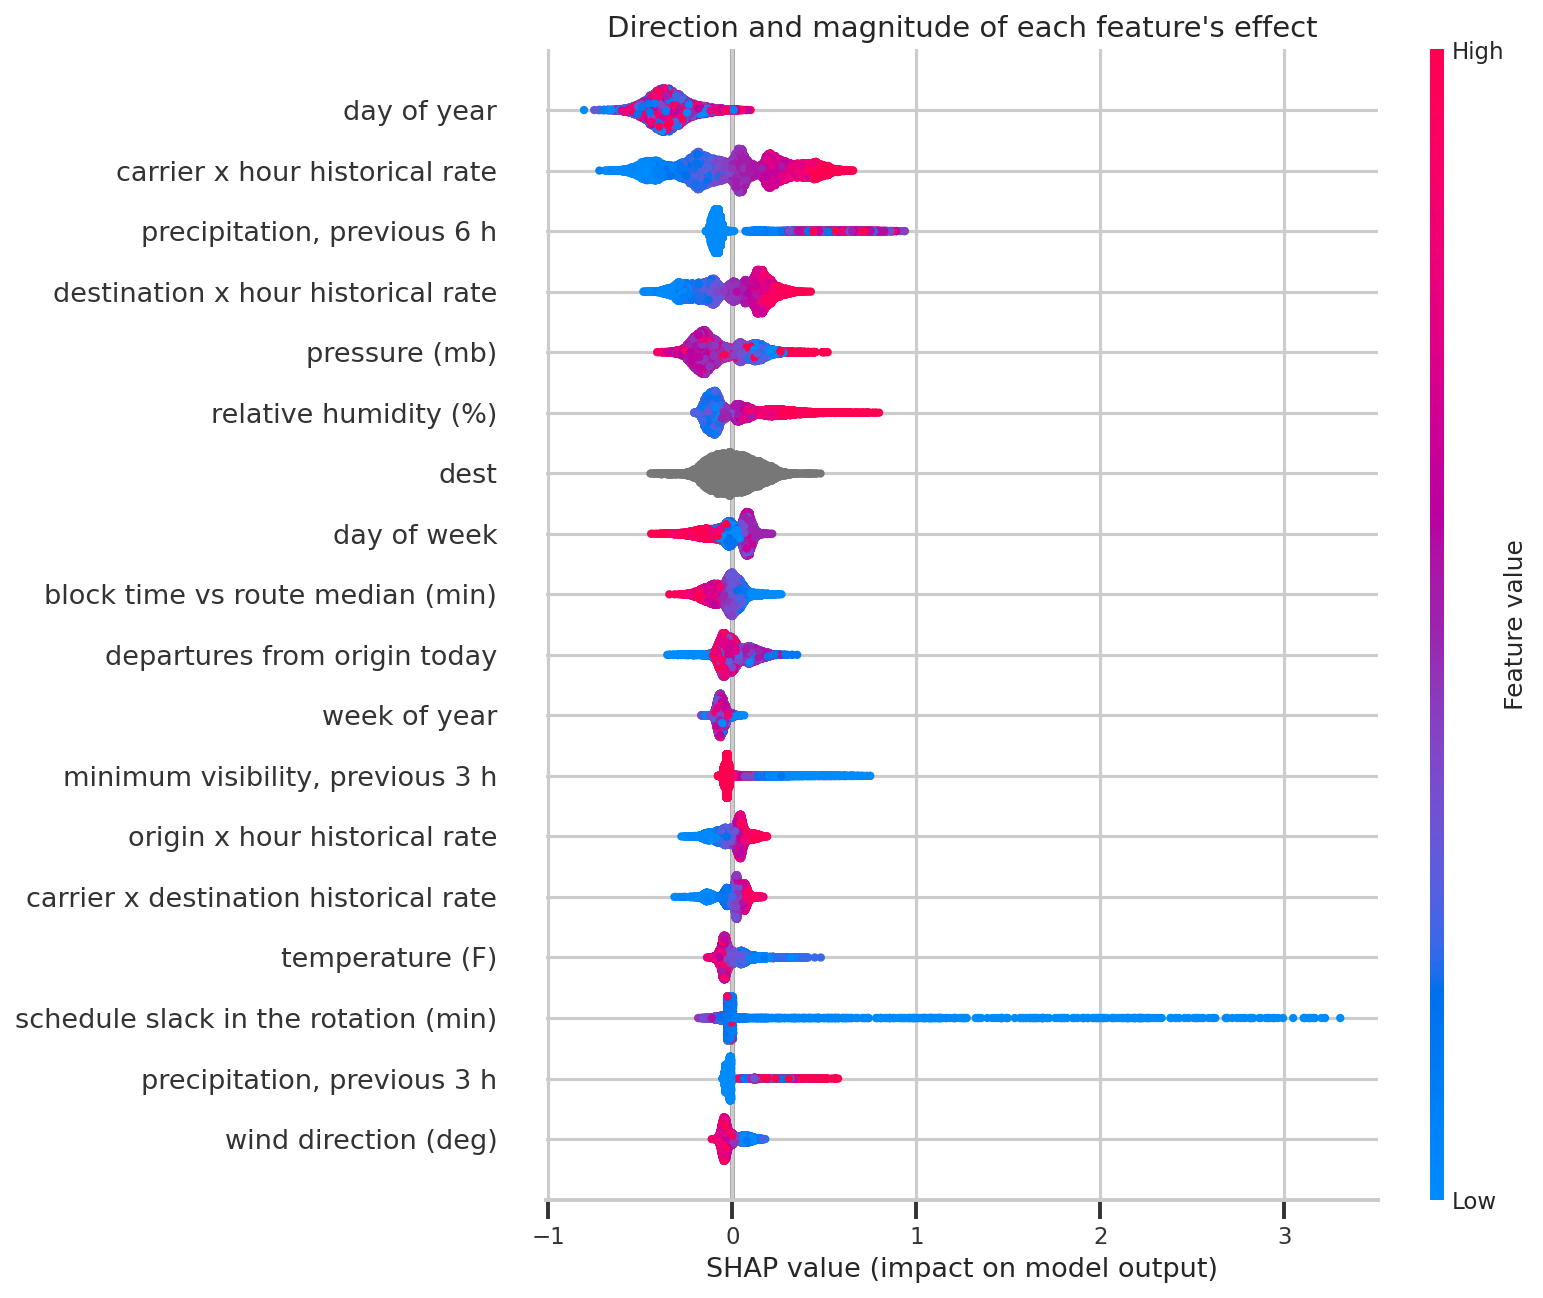
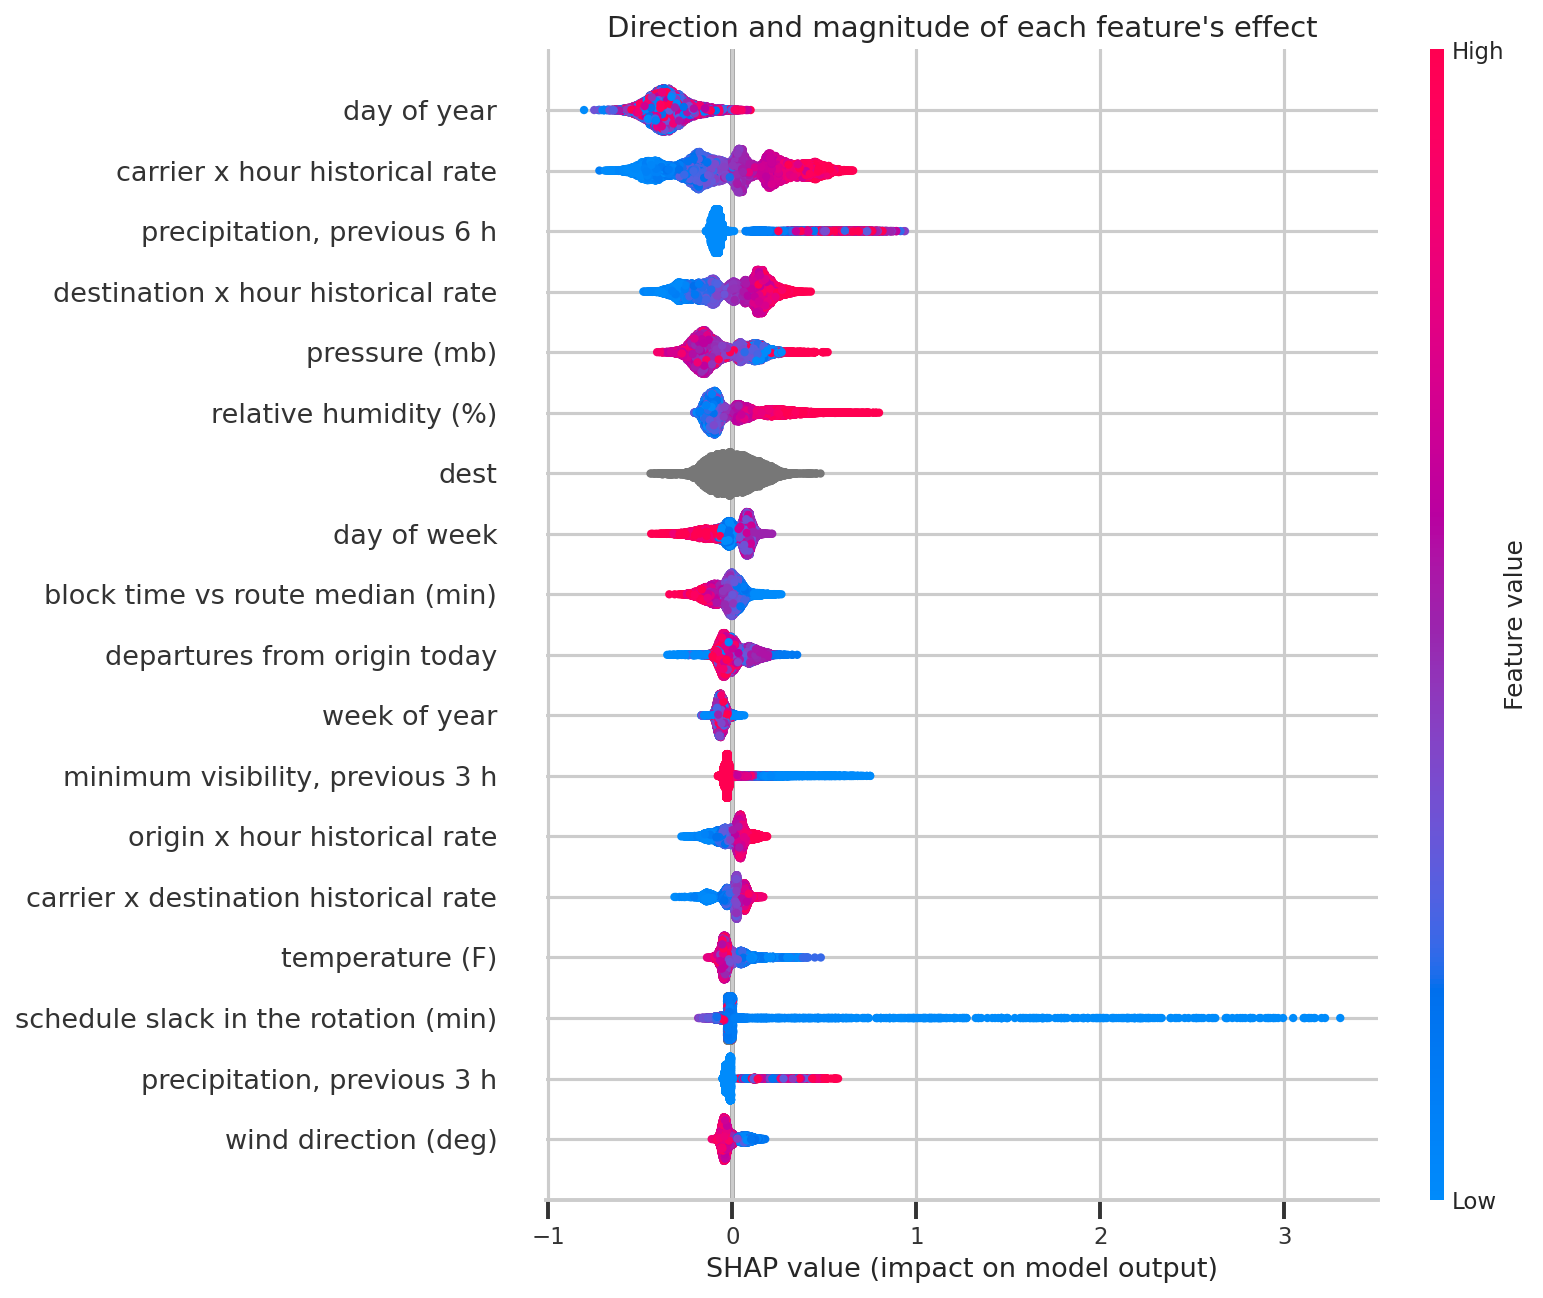
this cant be right

diff --git a/src/explain.py b/src/explain.py
@@ -257,13 +257,75 @@ def step_shap(sample_size: int = 20000) -> None:
                 bbox_inches="tight", facecolor="white")
     plt.close(fig)
 
+    # --- level shifters vs discriminators ------------------------------
+    stats = _fig_level_vs_rank(sv, X, train)
+
     SHAP_FILE.write_text(json.dumps({
         "n_sample": int(len(X)),
         "mean_abs_shap": {k: float(v) for k, v in order.items()},
         "group_share": {k: float(v / total) for k, v in
                         sorted(grouped.items(), key=lambda kv: -kv[1])},
+        "out_of_range_features": stats,
     }, indent=2))
-    log.info("wrote SHAP figures 16-20")
+    log.info("wrote SHAP figures 16-20, 22")
+
+
+def _fig_level_vs_rank(sv: np.ndarray, X: pd.DataFrame,
+                       train: pd.DataFrame) -> Dict:
+    """Separate features that shift the level from features that rank flights.
+
+    Mean |SHAP| -- the standard importance bar chart -- sums two very different
+    behaviours. A feature whose test values sit entirely outside the training
+    range gets pushed into the model's last bin for *every* test flight and
+    contributes a large but nearly constant offset: it moves calibration and
+    does nothing for discrimination. A feature that varies flight to flight is
+    what actually produces ranking. Plotting the mean against the standard
+    deviation of the SHAP values separates the two.
+    """
+    mean_signed = sv.mean(axis=0)
+    sd = sv.std(axis=0)
+    names = list(X.columns)
+
+    # Which numeric features are extrapolating beyond what training ever saw?
+    out_of_range = {}
+    for c in names:
+        if c not in train.columns or str(X[c].dtype) == "category":
+            continue
+        tr_lo, tr_hi = train[c].min(), train[c].max()
+        xs = pd.to_numeric(X[c], errors="coerce")
+        share = float(((xs < tr_lo) | (xs > tr_hi)).mean())
+        if share > 0.5:
+            out_of_range[c] = {
+                "share_of_test_outside_training_range": share,
+                "train_range": [float(tr_lo), float(tr_hi)],
+                "test_range": [float(xs.min()), float(xs.max())],
+                "mean_shap": float(mean_signed[names.index(c)]),
+                "sd_shap": float(sd[names.index(c)]),
+            }
+
+    fig, ax = plt.subplots(figsize=(12, 8.5))
+    flagged = np.array([c in out_of_range for c in names])
+    ax.scatter(sd[~flagged], np.abs(mean_signed)[~flagged], s=70,
+               color="#3b6978", label="within training range")
+    ax.scatter(sd[flagged], np.abs(mean_signed)[flagged], s=120,
+               color="#c44e52", label="test values outside training range")
+    lim = max(sd.max(), np.abs(mean_signed).max()) * 1.08
+    ax.plot([0, lim], [0, lim], ls=":", color="grey")
+
+    interesting = np.argsort(-(np.abs(mean_signed) + sd))[:12]
+    for i in interesting:
+        ax.annotate(pretty(names[i]), (sd[i], abs(mean_signed[i])),
+                    textcoords="offset points", xytext=(7, 5), fontsize=10)
+    ax.set_xlabel("SD of SHAP value  ->  separates flights (drives AUC)")
+    ax.set_ylabel("|mean SHAP value|  ->  shifts every prediction (drives calibration)")
+    ax.set_title("Not all 'important' features are useful\n"
+                 "Points far above the diagonal move the level without ranking anything",
+                 fontsize=14)
+    ax.legend(fontsize=11)
+    fig.savefig(FIGURES / "22_level_vs_ranking.png", dpi=150,
+                bbox_inches="tight", facecolor="white")
+    plt.close(fig)
+    return out_of_range
 
 
 # ---------------------------------------------------------------------------
